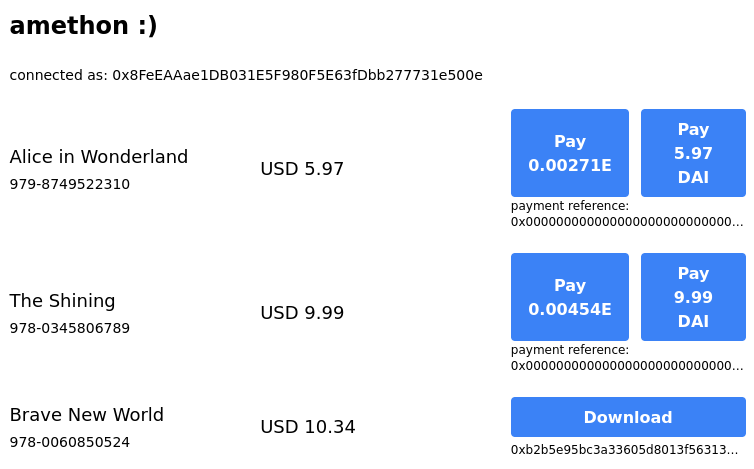
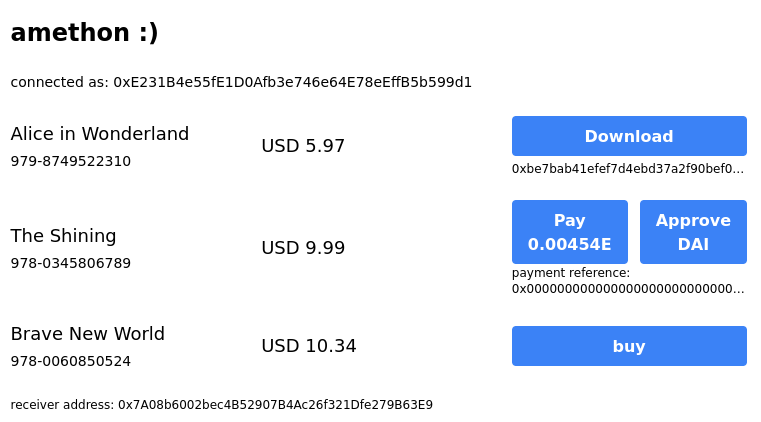
finished article draft

diff --git a/article/article.md b/article/article.md
@@ -271,7 +271,7 @@ const handlePaymentEvent = async (event: PaymentReceivedEvent) => {
 
 Our bookstore's frontend is built using a plain [Create React App](https://create-react-app.dev/) template with Typescript support and [Tailwind](https://tailwindcss.com/) for basic styles. CRA5 bumped their webpack dependency to a version that doesn't support node polyfills in browsers anymore which breaks the builds of nearly all Ethereum related projects today. A common workaround that avoids ejecting is to hook into the CRA build process - we decided to use [react-app-rewired](https://github.com/timarney/react-app-rewired) or go with CRA4 until the community agreed to a better solution.
 
-### connecting to web3
+### Connecting a web3 Wallet
 
 The most crucial part of a Dapp is to get a connection to an user's wallet. While you could try to manually wire that process up according to [the official Metamask docs](https://docs.metamask.io/guide/getting-started.html), we strongly recommend going with an appropriate React library; we found Noah Zinsmeister's [web3-react](https://www.npmjs.com/package/web3-react) to do the job best. Detecting and connecting to a web3 client then boils down to this code (`ConnectButton.tsx`):
 
@@ -302,7 +302,7 @@ export const ConnectButton = () => {
 };
 ```
 
-By wrapping your app's code in an `<Web3ReactProvider getLibrary={getWeb3Library}>` context you can access the web3 provider, account and connected state using the `useWeb3React` hook from anywhere. Since Web3React is agnostic to the web3 library being used ([Web3.js](https://www.npmjs.com/package/web3) or [ethers.js](https://www.npmjs.com/package/ethers)), you must provide a callback that yields a connected "library" once:
+By wrapping your `App`'s code in an `<Web3ReactProvider getLibrary={getWeb3Library}>` context you can access the web3 provider, account and connected state using the `useWeb3React` hook from anywhere. Since Web3React is agnostic to the web3 library being used ([Web3.js](https://www.npmjs.com/package/web3) or [ethers.js](https://www.npmjs.com/package/ethers)), you must provide a callback that yields a connected "library" once:
 
 ```typescript
 import Web3 from "web3";
@@ -311,14 +311,146 @@ function getWeb3Library(provider: any) {
 }
 ```
 
-## usage
+## Payment flows
 
-### paying with ETH
+After loading the available books from the amethon backend the `<BookView>` component first checks whether payments for this user already had been processed and then displays all supported payment options bundled inside the `<PaymentOptions>` component.
 
-### paying with Stablecoins
+![The amethon storefront with payment options](./storefront.png "The amethon storefront with payment options")
 
-### signing download requests
+### Paying with ETH
 
-## Deploying on a public testnet
+The `<PaymentButton>` is responsible for initiating direct Ether transfers to the `PaymentReceiver` contract. Since these calls are not interacting with the contract's interface directly, there's no need to initialize a contract instance client side:
 
-## Outlook
+```typescript
+const weiPrice = usdInEth(paymentRequest.priceInUSDCent);
+
+const tx = web3.eth.sendTransaction({
+  from: account, //the current user
+  to: paymentRequest.receiver.options.address, //the ÜaymentReceiver contract address
+  value: weiPrice, //the eth price in wei (10**18)
+  data: paymentRequest.idUint256, //the paymentRequest's id, converted to a uint256 hex string
+});
+tx.on("confirmation", (confirmationNumber, receipt) => {
+  if (confirmationNumber < 2) onConfirmed(receipt);
+});
+```
+
+Since the created transaction carries a `msg.data` field, it will by Solidity's convention trigger the `PaymentReceiver`'s `fallback() external payable` function that emits a `PaymentReceived` event with Eth as token address. This is picked up by the daemonized chain listener that updates the backend's database state accordingly.
+
+![Metamask dialog for transferring Ether to the contract](./paywitheth.png "Metamask dialog for transferring Ether to the contract")
+
+A static helper function is responsible to convert the current dollar price to an Ether value. In a real world scenario you'd want to query the exchange rates either from a trustworthy 3rd party like [Coingecko](https://www.coingecko.com/en/api) or querying from a DEX like [Uniswap](https://docs.uniswap.org/sdk/guides/fetching-prices). Doing so would allow you to extend amethon to accept arbitrary tokens as payments.
+
+```typescript
+const ETH_USD_CENT = 2_200 * 100;
+export const usdInEth = (usdCent: number) => {
+  const eth = (usdCent / ETH_USD_CENT).toString();
+  const wei = Web3.utils.toWei(eth, "ether");
+  return wei;
+};
+```
+
+### Paying with ERC20 Stablecoins
+
+For reasons pointed out in the beginning, payments in ERC20 tokens are slightly more complex from a user's perspective since one cannot simply drop tokens on a contract. Instead we must - as nearly anyone with a comparable usecase - first ask the user to give their **permission** that our `PaymentReceiver` contract may transfer their funds and afterwards have them call the actual `payWithEerc20` method on it that transfers the requested funds on behalf of the user.
+
+Here's the `PayWithStableButton`'s code for giving the permission on a selected ERC20 token:
+
+```typescript
+const contract = new web3.eth.Contract(
+  IERC20ABI as AbiItem[],
+  process.env.REACT_APP_STABLECOINS
+);
+
+const appr = await coin.methods
+  .approve(
+    paymentRequest.receiver.options.address, //receiver's contract address
+    price // in wei
+  )
+  .send({
+    from: account,
+  });
+```
+
+Note that the ABI needed to setup a `Contract` instance of the ERC20 token receives a general IERC20 ABI. We're conveniently using the generated ABI from [OpenZeppelin's official library](https://docs.openzeppelin.com/contracts/4.x/api/token/erc20#IERC20) but any other generated ABI would do the same job. After having approved the transfer we can initiate the payment:
+
+```typescript
+const contract = new web3.eth.Contract(
+  ReceiverAbi as AbiItem[],
+  paymentRequest.receiver.options.address
+);
+const tx = await contract.methods
+  .payWithErc20(
+    process.env.REACT_APP_STABLECOINS, //identifies the ERC20 contract
+    weiPrice, //price in USD (it's a stablecoin)
+    paymentRequest.idUint256 //the paymentRequest's id as uint256
+  )
+  .send({
+    from: account,
+  });
+```
+
+## Signing Download Requests
+
+Finally, we're able to let our customer download their ebook. But there's a caveat: Since we have no "logged in" user, how do we ensure that only users who actually paid for content can invoke our download route? The answer are cryptographic signatures. On click the `<DownloadButton>` component creates a unique message that is presented to be signed by the customer:
+
+```typescript
+const download = async () => {
+  const url = `${process.env.REACT_APP_BOOK_SERVER}/books/${book.ISBN}/download`;
+
+  const nonce = Web3.utils.randomHex(32);
+  const dataToSign = Web3.utils.keccak256(`${account}${book.ISBN}${nonce}`);
+
+  const signature = await web3.eth.personal.sign(dataToSign, account, "");
+
+  const resp = await (
+    await axios.post(
+      url,
+      {
+        address: account,
+        nonce,
+        signature,
+      },
+      { responseType: "arraybuffer" }
+    )
+  ).data;
+  // present that buffer as download to the user...
+};
+```
+
+![Metamask signing dialog to prove a the customer's address](./sign_download.png "Metamask signing dialog to prove a the customer's address")
+
+On the backend's `download` route we can recover the signer's address because we also know how to assemble the message. If that address matches a fulfilled `PaymentRequest` on our database, we know that we can permit access to the requested resource:
+
+```typescript
+// server.ts
+app.post(
+  "/books/:isbn/download",
+  async (req: DownloadBookRequest, res: Response) => {
+    const { signature, address, nonce } = req.body;
+
+    //rebuild the message the user created on their frontend
+    const signedMessage = Web3.utils.keccak256(
+      `${address}${req.params.isbn}${nonce}`
+    );
+
+    const signingAccount = await web3.eth.accounts.recover(
+      signedMessage,
+      signature,
+      false
+    );
+
+    if (signingAccount !== address) {
+      return res.status(401).json({ error: "not signed by address" });
+    }
+
+    //deliver the binary content...
+  }
+);
+```
+
+Note, that the interaction presented here is still not unfailable. Of course anyone who knows a valid signature for a purchased item can now just successfully call the download route. To improve the route's security you could create the nonce server side to have the customer sign and prove it. Another note: since users themselves cannot make any sense of the garbled hex code they're supposed to sign, they cannot know, if we're going to trick them into signing another valid transaction that might compromise their account. We're avoiding this attack vector by making use of web's `eth.personal.sign` method but it might be nicer to display the message to be signed in a human friendly way. That's what [EIP-712](https://eips.ethereum.org/EIPS/eip-712) is trying to achieve, a standard that's [already supported by Metask](https://docs.metamask.io/guide/signing-data.html).
+
+## Conclusion and Outlook
+
+Accepting payments on ecommerce websites never has been an easy task for developers. While the web3 ecosystem allows stores to accept digital currencies, the availability of service independent plugin solutions is still low. This article demonstrated only one safe way to request and receive payments but you can take it further from here. Gas costs for ERC20 transfers on Ethereum mainnet are exceeding our example's book prices so for low priced items one must use more gas friendly environments like [Gnosis Chain](https://www.xdaichain.com/) (their "native" Ether currency is the DAI stablecoin, so one doesn't have to worry about stablecoin transfers at all) or [Arbitrum](https://arbitrum.io/). You could think of extending backend with more advanced payment requests or cart checkouts or you could use DEXes to swap any incoming ERC20 tokens into your preferred currency. However, the promise of web3 holds: it allows direct monetary transaction without any middlemen and might be a great option to add for crypto savvy customers.
